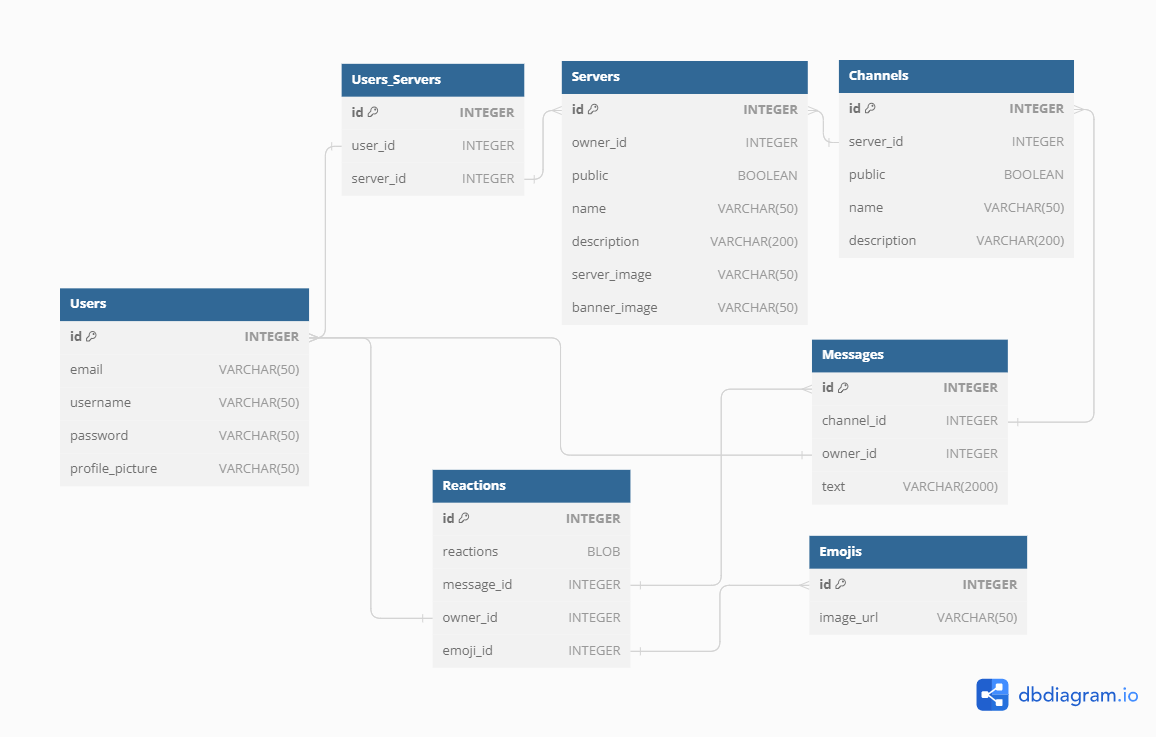
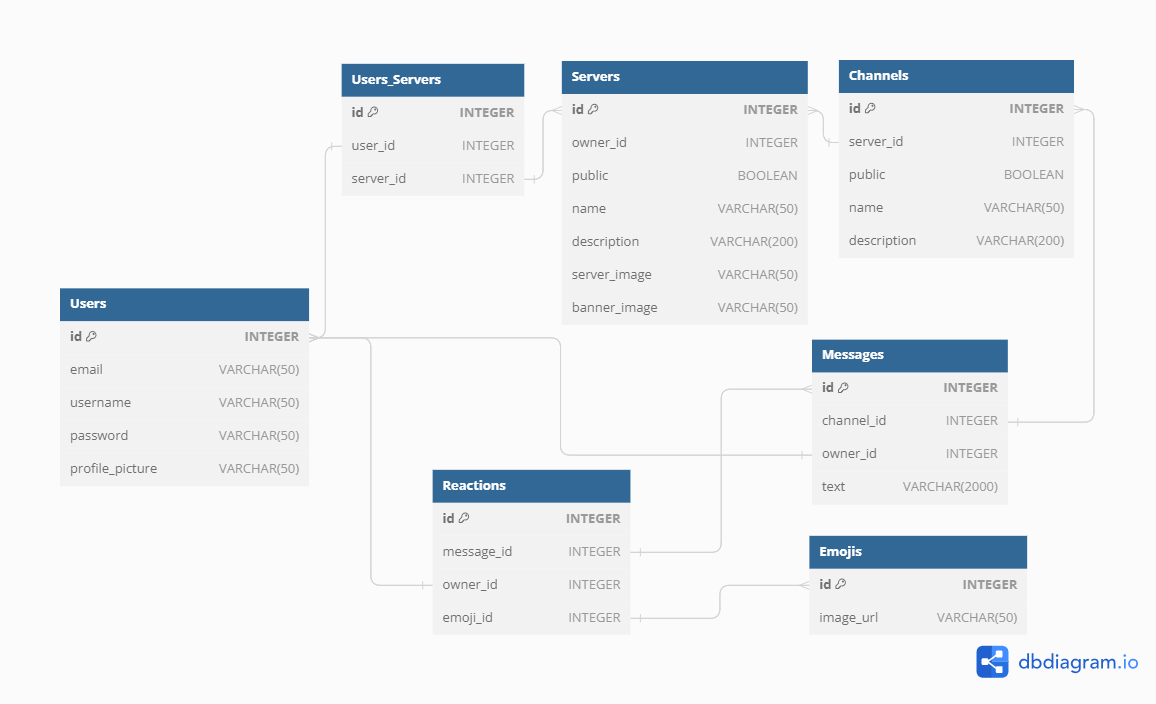
store shape and remove row from `Reactions` table in db schema

diff --git a/documentation/store_shape.js b/documentation/store_shape.js
@@ -1,0 +1,51 @@
+store = {
+  session: {
+    user: {}
+  },
+  server: {
+    allServers: {
+      owned: {
+        [serverId]: {
+          serverData
+        }
+      },
+      joined: {
+        [serverId]: {
+          serverData
+        }
+      },
+    },
+    singleServer: {
+      serverData,
+      [Users]: {
+        userData
+      },
+      Owner: {
+        ownerData
+      }
+    }
+  },
+  channels: {
+    serverChannels: {
+      [channelId]: {
+        channelData
+      }
+    },
+    singleChannel: {
+      channelData
+    }
+  },
+  messages: {
+    channelMessages: {
+      [messageId]: {
+        messageData,
+        Owner: {
+          ownerData
+        },
+        [Reactions]: {
+          reactionData
+        }
+      }
+    }
+  },
+}
